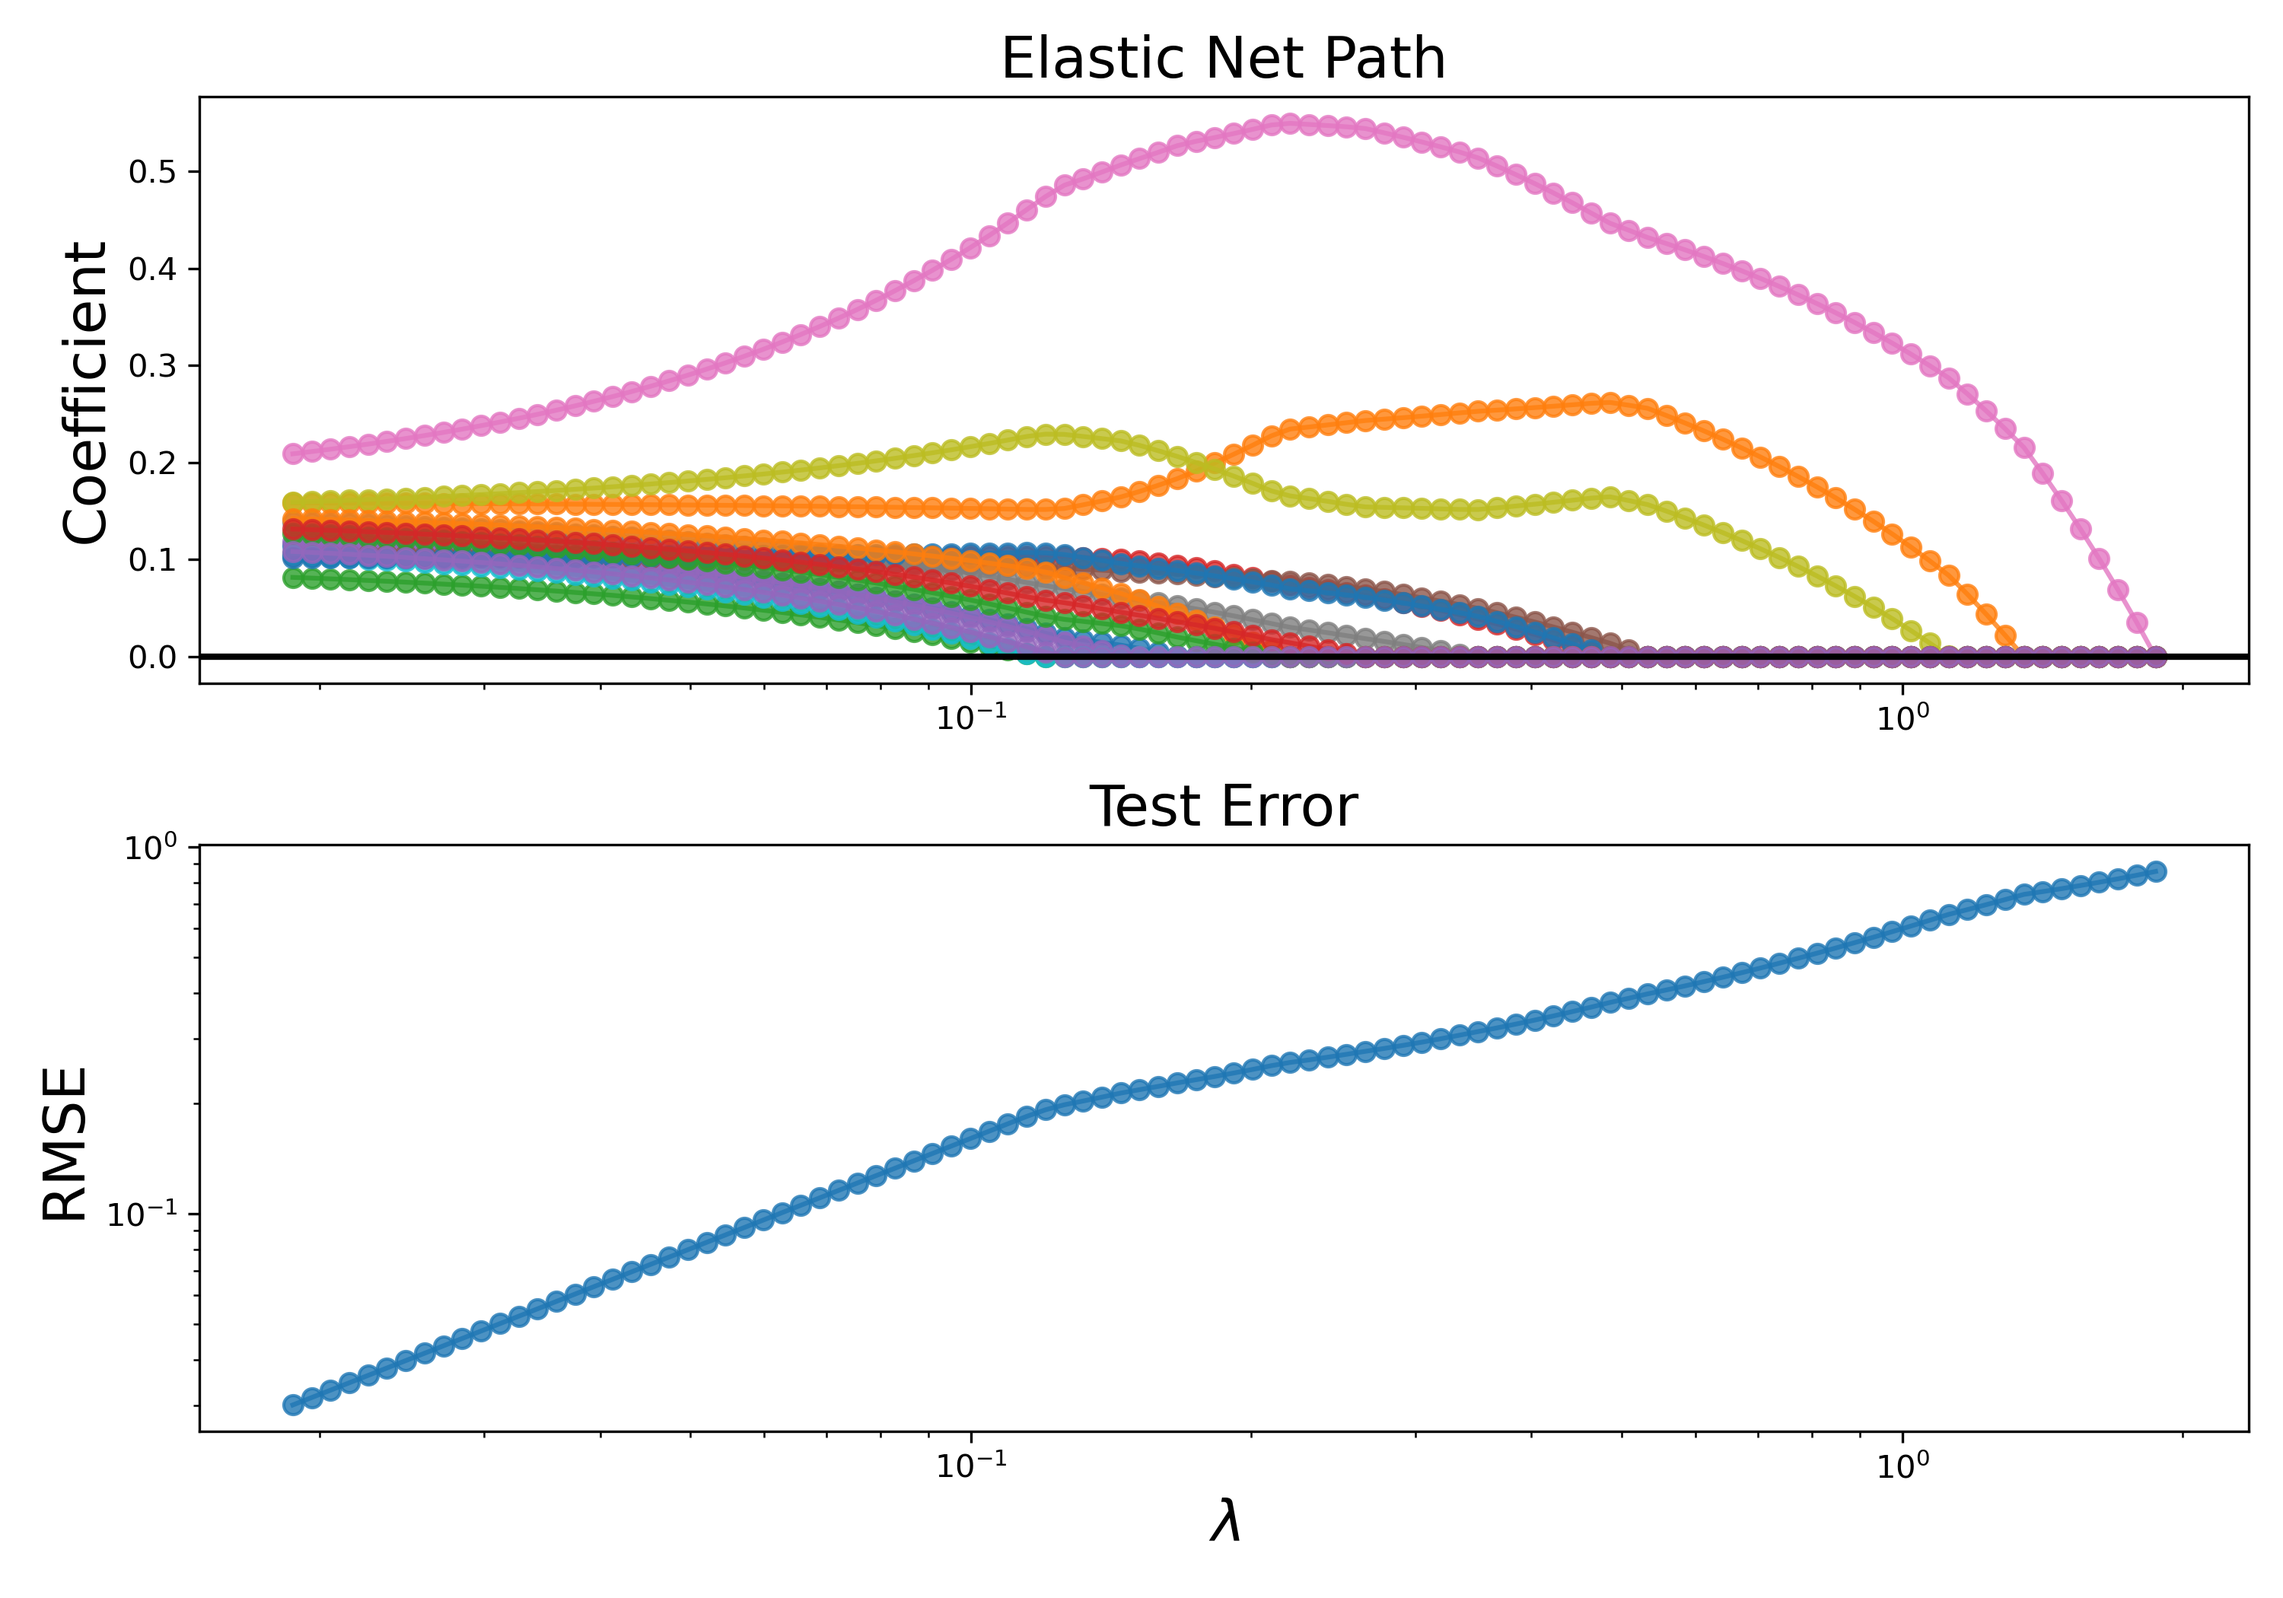
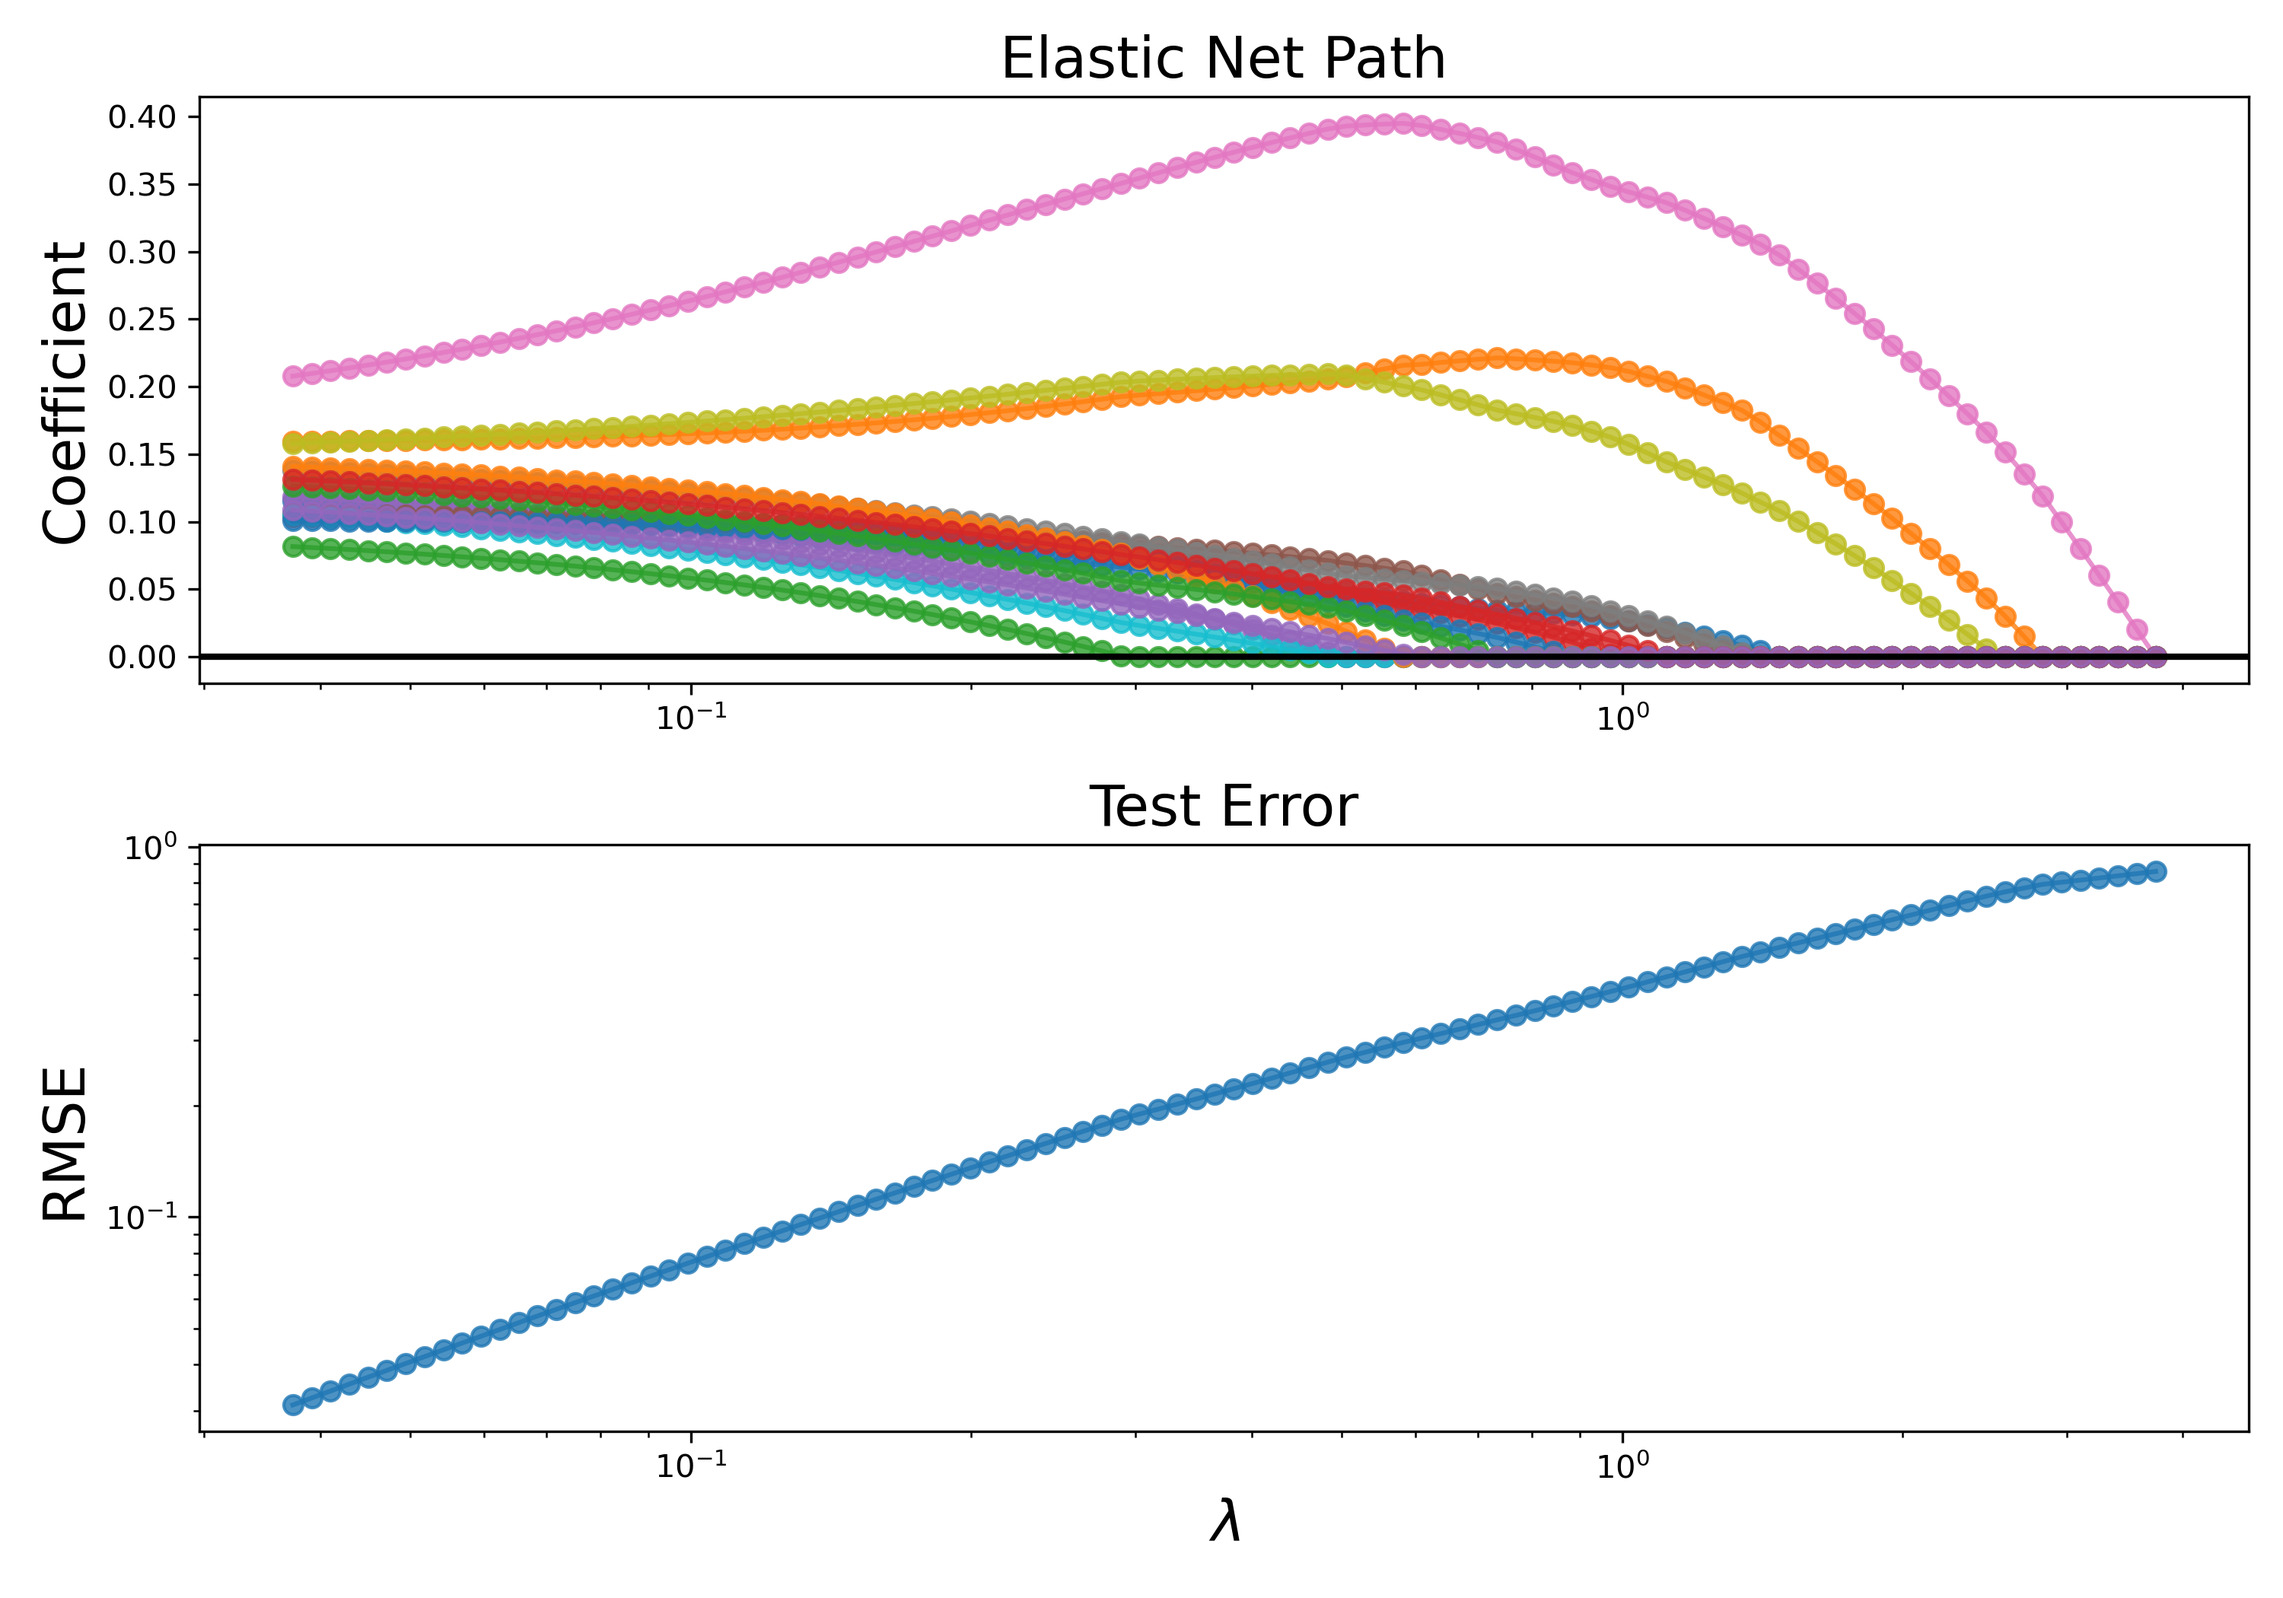
overview draft and files

diff --git a/plot_path.py b/plot_path.py
@@ -1,0 +1,27 @@
+import numpy as np
+import matplotlib.pyplot as plt
+
+errors_path = np.loadtxt("./test_data/linear_batches_testErrors.csv", delimiter=',')
+elnet_path  = np.loadtxt("./test_data/linear_batches_elnetPath.csv", delimiter=',')
+
+# errors_path = np.loadtxt("./test_data/non_linear_batches_testErrors.csv", delimiter=',')
+# elnet_path  = np.loadtxt("./test_data/non_linear_batches_elnetPath.csv", delimiter=',')
+fs = 18
+fig, (ax1, ax2) = plt.subplots(2, 1, figsize=(10, 7))
+
+ax1.plot(elnet_path[:,0], elnet_path[:,1:], marker='o', alpha=0.8)
+ax1.set_xscale('log')
+ax1.set_ylabel('Coefficient', fontsize=fs)
+ax1.axhline(0, color='black', lw=2)
+ax1.set_title('Elastic Net Path', fontsize=fs)
+
+ax2.plot(errors_path[:,0], errors_path[:,1], marker='o', alpha=0.8)
+ax2.set_xscale('log')
+ax2.set_yscale('log')
+ax2.set_xlabel('$\\lambda$', fontsize=fs)
+ax2.set_ylabel('RMSE', fontsize=fs)
+ax2.set_title('Test Error', fontsize=fs)
+plt.tight_layout()
+# save the figure
+plt.savefig('./imgs/linear_batches_elnetPath.png', dpi=300)
+

diff --git a/README.md b/README.md
@@ -2,25 +2,98 @@
 
 ## Installation
 
-These two currently available options for installing `qsin` use the files `environment.yml` and `build.sh`, which are located among this repository files
-
-### Option 1: Using conda
+The installation currently works for Linux and MacOS only. The two currently available options for installing `qsin` use the files `environment.yml` and `build.sh`, which are located among this repository files.
+#### Option 1: Using conda
 
 ```bash
 # construct the environment
 conda env create -f environment.yml
 conda activate qsin
-# install julia and r dependencies at qsin
+# install julia dependencies at qsin
 ./build.sh 
 ```
 
-### Option 2: Using Mamba
+#### Option 2: Using Mamba
 
 ```bash
 # construct the environment
 mamba env create -f environment.yml
 conda activate qsin
-# install julia and r dependencies at qsin
+# install julia dependencies at qsin
 ./build.sh
+```
+
+
+## Overview: A minimal example
+
+#### 1. Simulate networks 
+
+```bash
+# create dir where sim nets will be stored
+mkdir -p ./test_data/test_sims
+
+# simulate networks
+sim_nets.R 6 --max_iter 1000 --prefix test --out_path ./test_data/test_sims
+```
+
+#### 2. Expected concordance factors for simulated networks
+
+```bash
+infer_qlls.jl ./test_data/1_seqgen.CFs.csv\
+              ./test_data/test_sims/test*.txt\
+              --outfile ./test_data/test_qll.csv
+```
+
+#### 3. Create subsamples
+
+```bash
+path_subsampling.py ./test_data/test_qll.csv\
+        ./test_data/1_seqgen.CFs.csv\
+        --wpath     \
+        --factor 0.5\
+        --e 1e-2    \
+        --alpha 0.5 \
+        --verbose   \
+        --prefix ./test_data/linear_batches
+```
+
+`--wpath` specify whether the elastic net path information is output it.  if `--factor` is  set to -1 then,  get the row combination with the lowest RMSE.
+
+You can check the elastic net path produced for creating the subsample by running the following code:
+```python
+import numpy as np
+import matplotlib.pyplot as plt
+
+errors_path = np.loadtxt("./test_data/linear_batches_testErrors.csv", delimiter=',')
+elnet_path  = np.loadtxt("./test_data/linear_batches_elnetPath.csv", delimiter=',')
+
+fs = 18
+fig, (ax1, ax2) = plt.subplots(2, 1, figsize=(10, 8))
+ax1.plot(elnet_path[:,0], elnet_path[:,1:], marker='o', alpha=0.8)
+ax1.set_xscale('log')
+ax1.set_ylabel('Coefficient', fontsize=fs)
+ax1.axhline(0, color='black', lw=2)
+ax1.set_title('Elastic Net Path', fontsize=fs)
+ax2.plot(errors_path[:,0], errors_path[:,1], marker='o', alpha=0.8)
+ax2.set_xscale('log')
+ax2.set_yscale('log')
+ax2.set_xlabel('$\\lambda$', fontsize=fs)
+ax2.set_ylabel('RMSE', fontsize=fs)
+```
+
+![here](https://github.com/Ulises-Rosas/qsin/blob/main/imgs/linear_batches_elnetPath.png)
+
+#### 4.  Phylogenetic network inference
+
+```bash
+# lets take the last
+tail -n1 test_data/linear_batches_overlappedBatches.txt > ./test_data/linear_batches_last.txt
+
+infer_nets_batches.jl ./test_data/1_seqgen.QMC.tre\
+        ./test_data/1_seqgen.CFs.csv\
+        ./test_data/linear_batches_last.txt\
+        --h_max 1\
+        --prefix linear_overlapped\
+        --ncores 10
 ```
 
